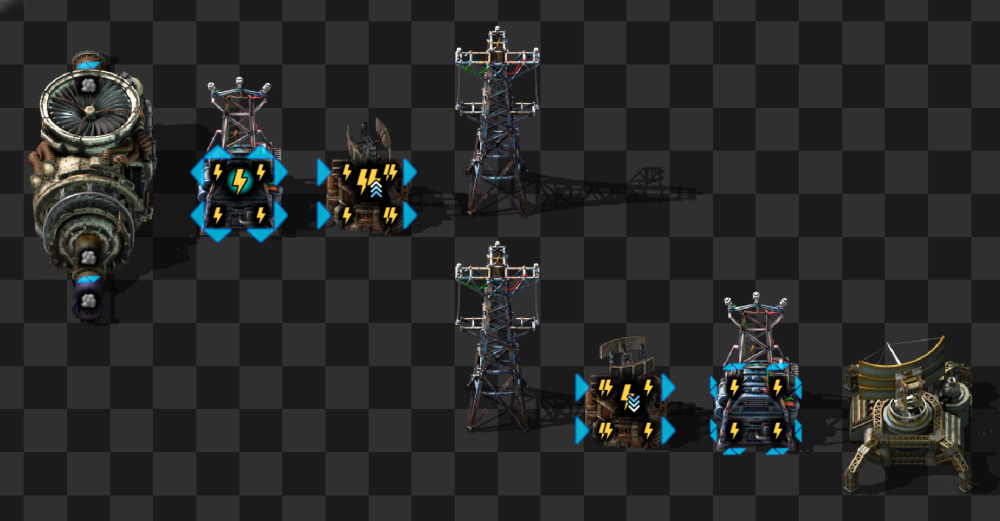
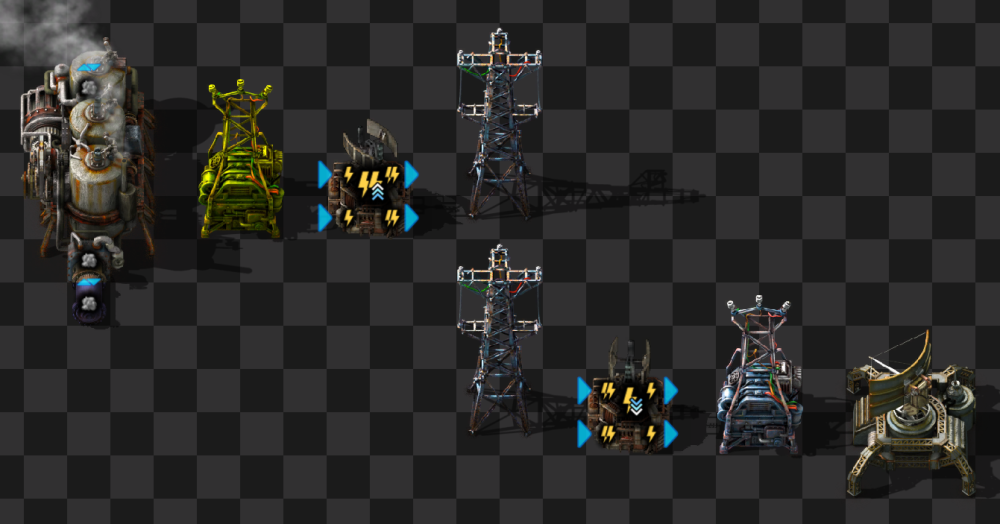
Getting ready for 0.4.0 release.

Changed region(s): [[0.0, 0.0, 0.558, 0.6142], [0.434, 0.4607, 0.992, 0.952], [0.558, 0.3378, 0.713, 0.3992]]

diff --git a/README.md b/README.md
@@ -25,11 +25,11 @@ Power poles are similar to pipes. This means they need to be placed inline with 
 
 There are `two` types of `power poles`. The first is most of the normal power poles, i.e. the small and medium power poles and the substation. These you will use to distribute your power and supply power to your buildings as you would usually. However, each tier pole can only supply a limited amount of power, for example, the small pole can only supply 5MW, but can transmit more.
  
-Then there is a new type, the **Power Pole Source**. These are used *only* where you generate your power. You will place these next to steam engines, turbines, solar panels, or any modded power generation building (not accumulators). Currently, these poles cannot connect to one another directly, so you would need to transfer the generated power away by connecting each source pole *directly* to a normal pole (or transformer!). Each tier can only source a limited amount of power to your network. For example, the small electric pole can only source 5MW.
+Then there is a new type, the **Power Pole Source**, which has a yellow tint. These are used *only* where you generate your power. You will place these next to steam engines, turbines, solar panels, or any modded power generation building (not accumulators). Currently, these poles cannot connect to one another directly, so you would need to transfer the generated power away by connecting each source pole *directly* to a normal pole (or transformer!). Each tier can only source a limited amount of power to your network. For example, the small electric pole can only source 5MW.
 
 ![](https://github.com/heinwessels/Factorio-FluidicPower/blob/main/images/pole-types.png?raw=true)
 
-*Here a source pole (left) transfers the power to the normal pole (right) to power the radar. They look the same but have different icons in `Alt-Mode`. The lack of visual wire will be explained later.*
+*Here a source pole (left) transfers the power to the normal pole (right) to power the radar. Notice the yellow tint of the Source Pole. The lack of visual wire will be explained later.*
 
 The big power pole is different in that it can *only* transmit power. It cannot source power from generators or supply any buildings. It's also the only power pole that can transmit higher "voltages", but for that, you would need transformers. More on that next.
 
